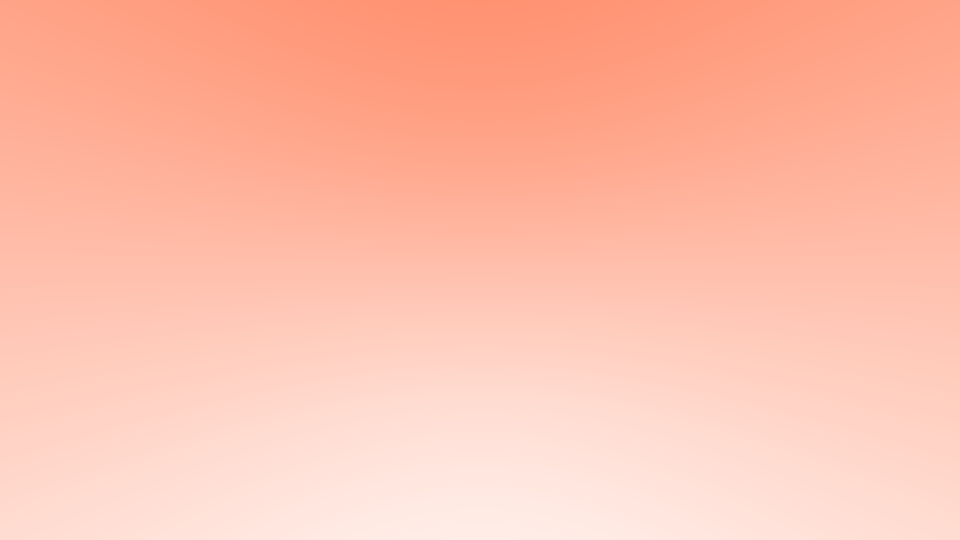
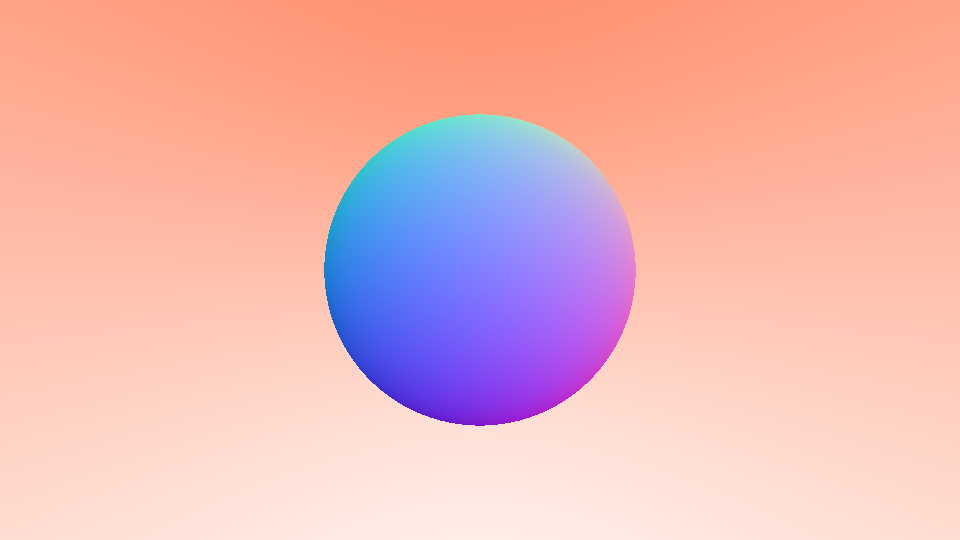
add sphere intersection

Changed region(s): [[0.3125, 0.2074, 0.6875, 0.8]]

diff --git a/main.cpp b/main.cpp
@@ -11,10 +11,34 @@
 #define IMG_WIDTH 960
 #define IMG_HEIGHT 540
 
+double hit_sphere(const point3& center, double radius, const Ray& ray)
+{
+    vec3 oc = ray.origin() - center;
+    double a = ray.direction().square();
+    double hb = dot(oc, ray.direction());
+    double c = oc.square() - radius * radius;
+    double discr = hb * hb - a * c;
+    if (discr < 0)
+    {
+        return -1.0;
+    }
+    else
+    {
+        return (-hb - sqrt(discr)) / a;
+    }
+}
+
 color ray_color(const Ray& ray)
 {
+    point3 center = point3(0, 0,-2);
+    double t = hit_sphere(center, 1.0, ray);
+    if (t >= 0)
+    {
+        vec3 n = unit_vector(ray.at(t) - center);
+        return color(n[0] + 1.0, n[1] + 1.0, n[2] + 1.0) * 0.5;
+    }
     vec3 unit_dir = unit_vector(ray.direction());
-    double k = (unit_dir.y() + 1.0) / 2;
+    double k = (unit_dir.y() + 1.0) * 0.5;
     return color(1.0, 0.5, 0.35) * k + color(1.0, 1.0, 1.0) * (1.0 - k);
 }
 
